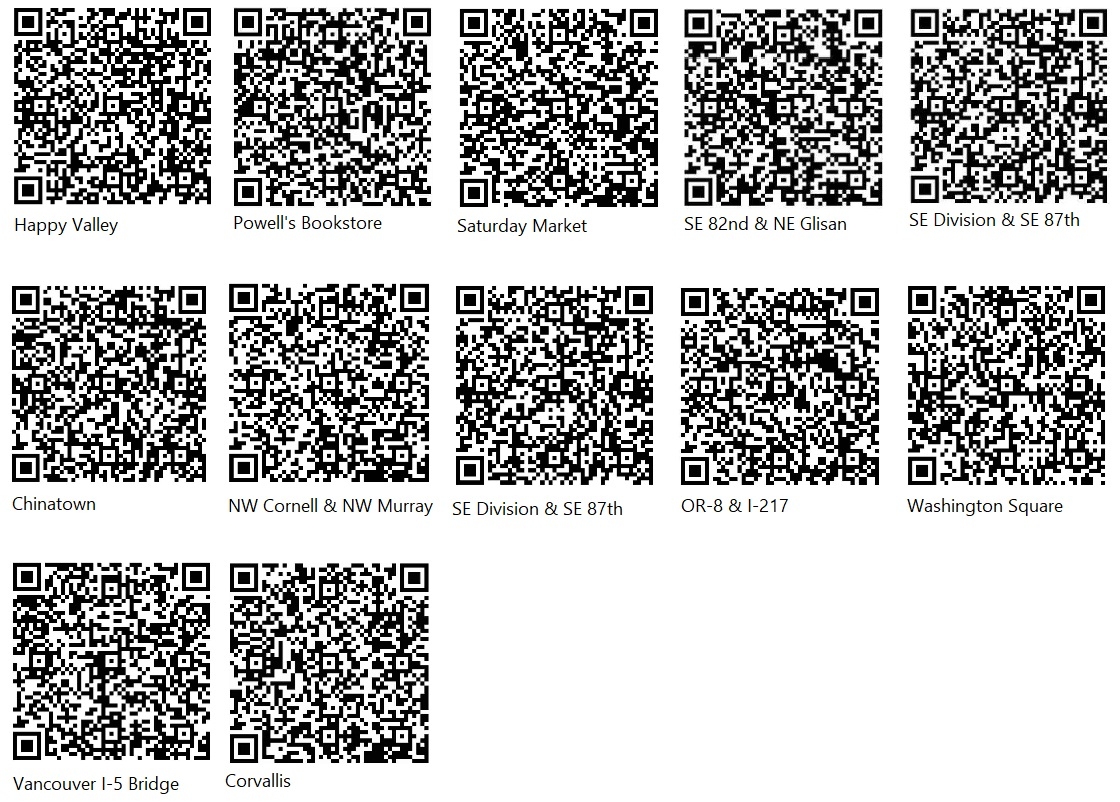
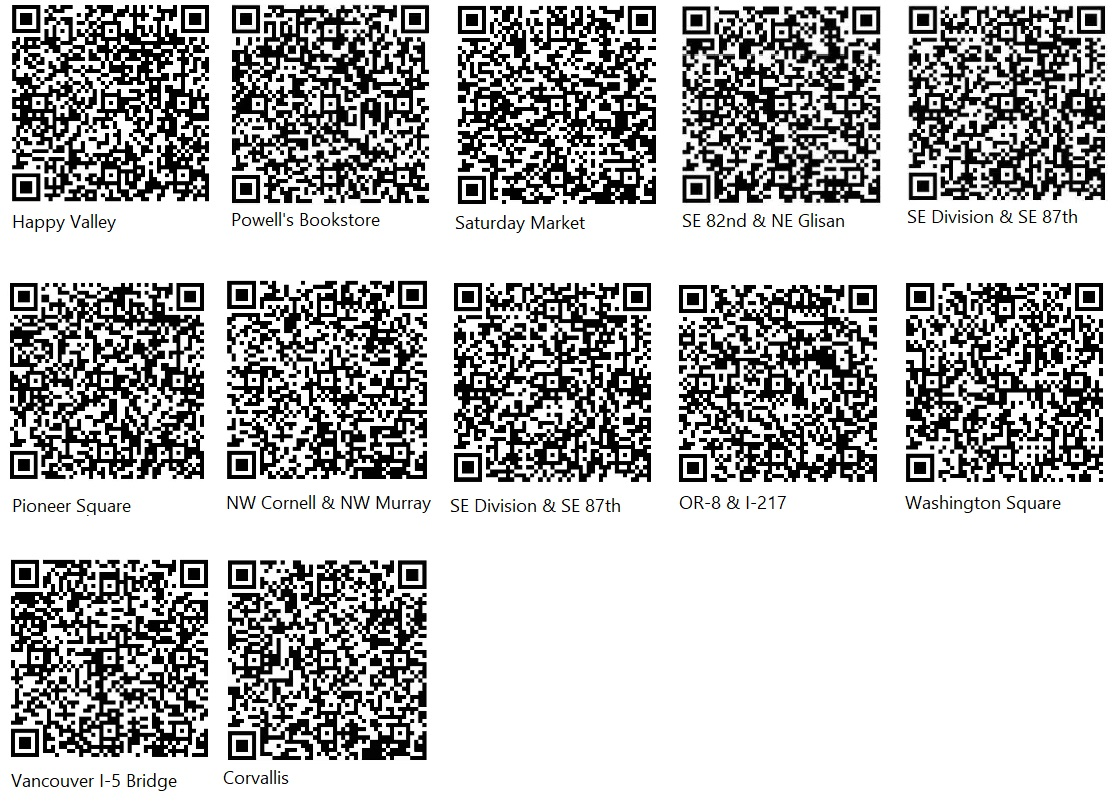
update

diff --git a/_posts/2021-03-21-protest_against_racism_xenophobia_misogyny.md b/_posts/2021-03-21-protest_against_racism_xenophobia_misogyny.md
@@ -17,7 +17,7 @@ feature_row1:
 
 <iframe src="https://www.google.com/maps/d/u/0/embed?mid=1heQFgwgsOcUGljAZKq6CEl1FPgGAOk-k" width="640" height="480"></iframe>
 
-| Chinatown (next to Gate) | Downtown Portland |
+| Pioneer Courthouse Square | Downtown Portland |
 | Powell's City of Books | Downtown Portland |
 | NE 82nd Ave & NE Glisan St | SE Portland |
 | SE Division St & SE 87th Ave | SE Portland |
